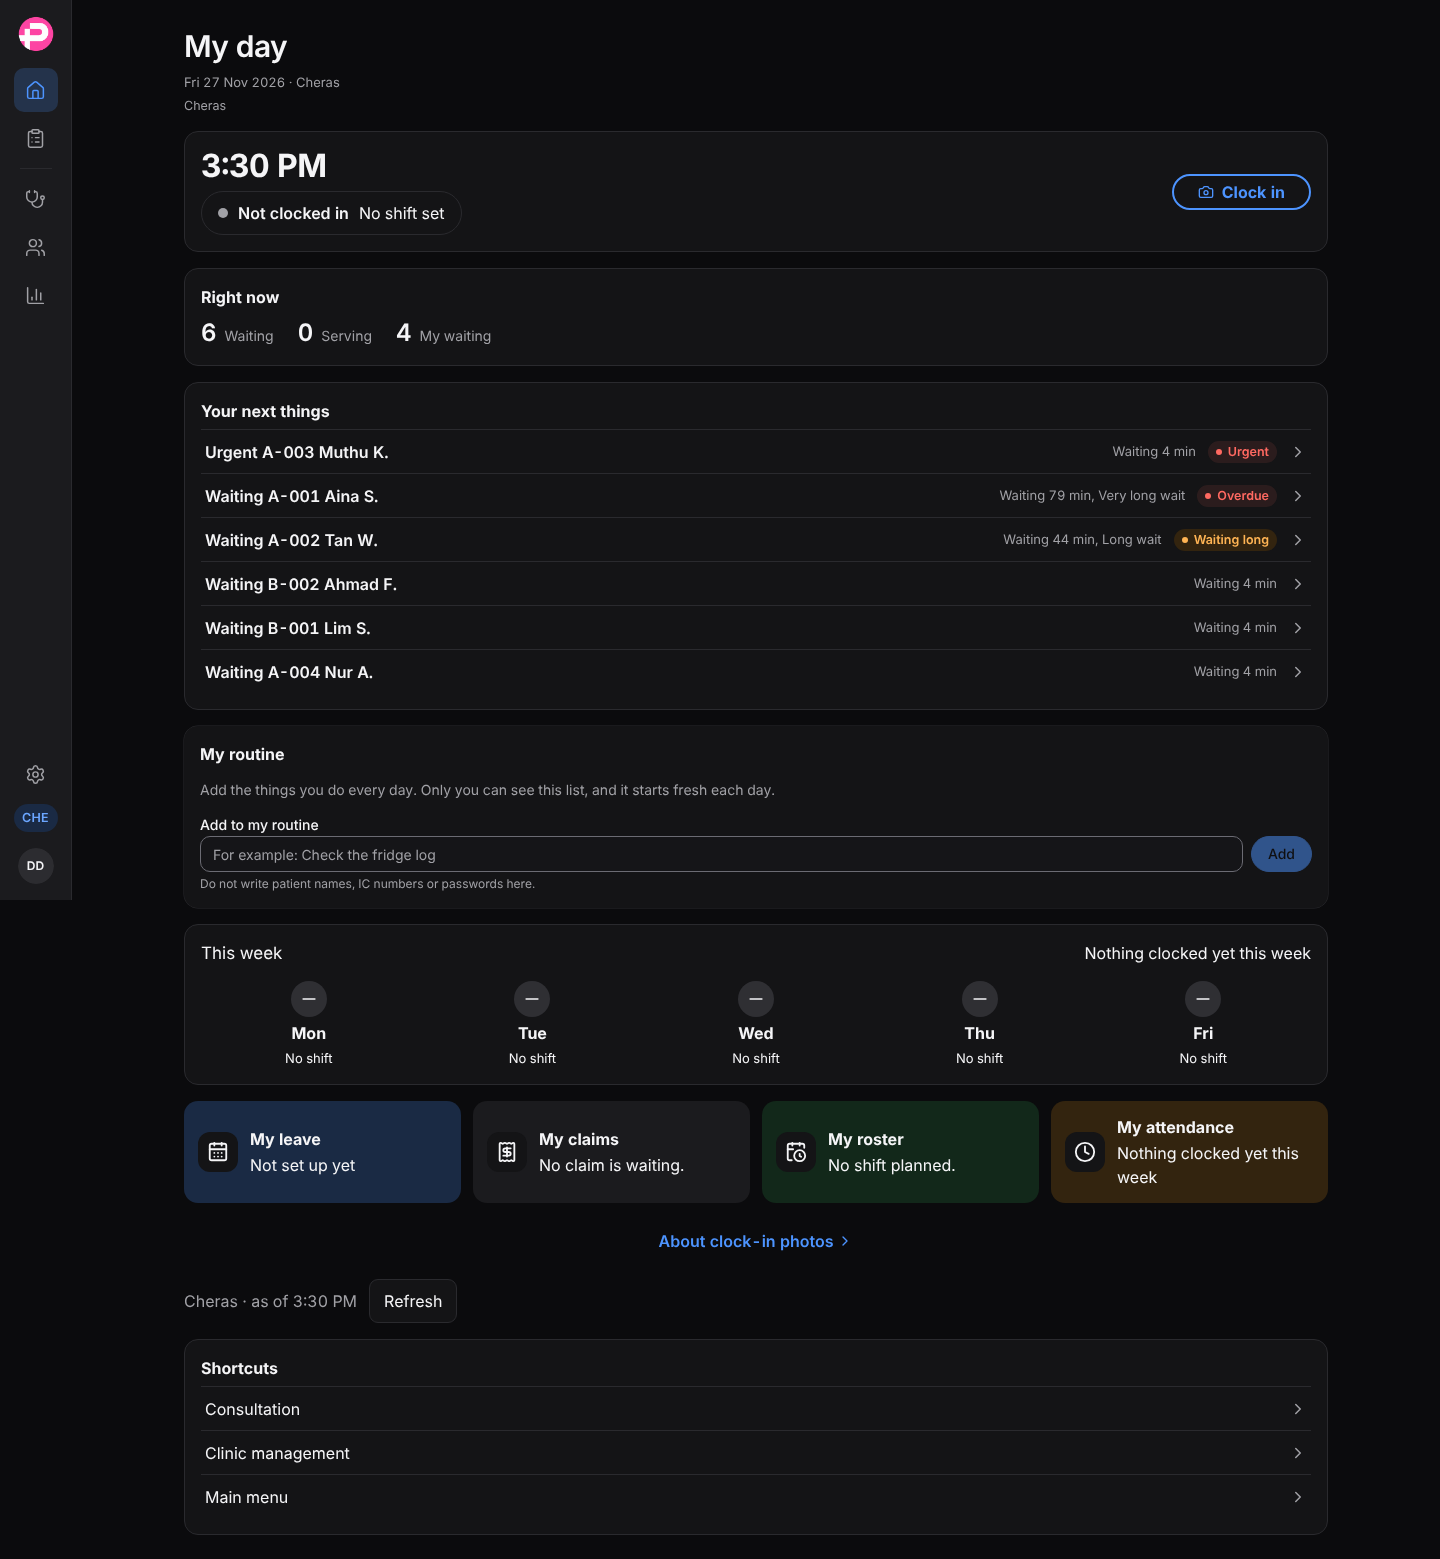
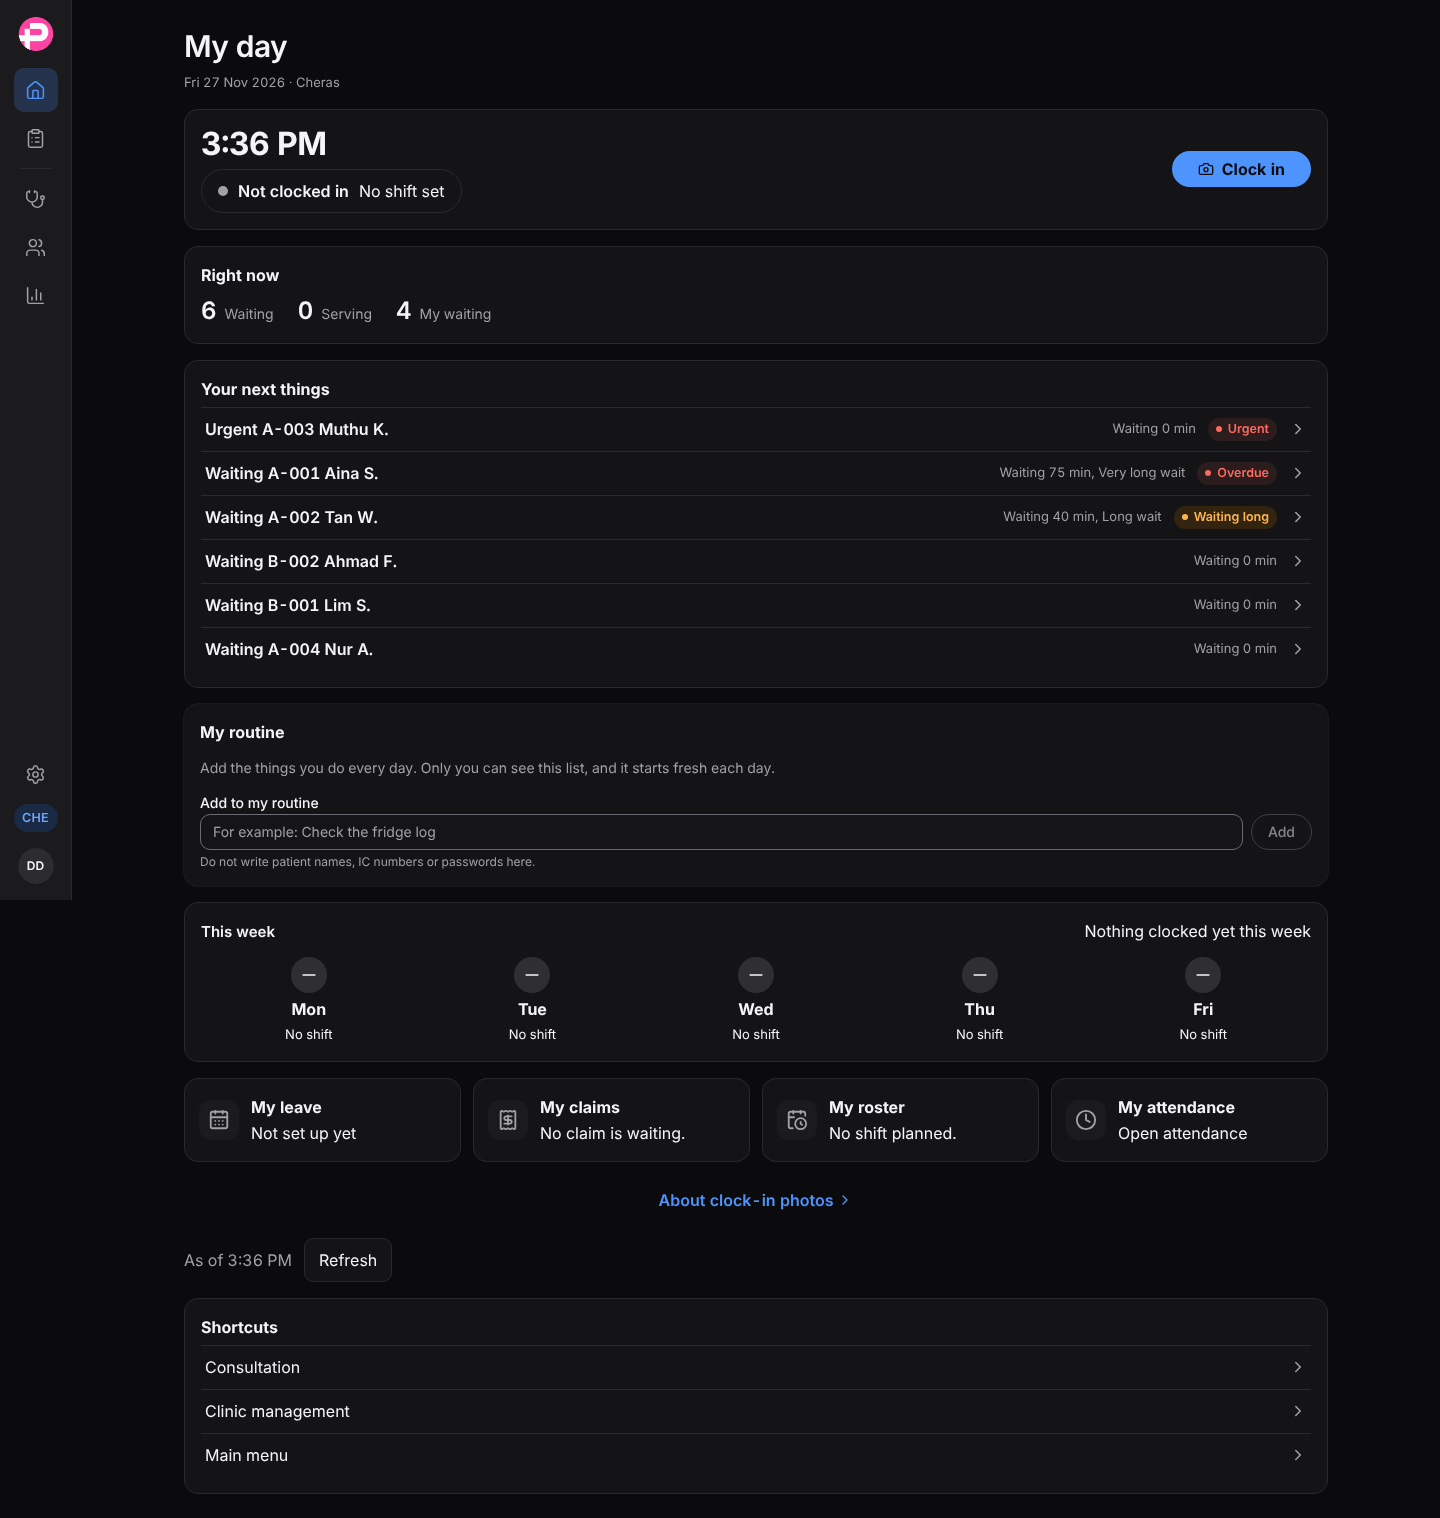
Re-shoot My day screenshots after Daniel's four changes
Claude-Session: https://claude.ai/code/session_01MHFmnZdtSucq8frKshn3kp

diff --git a/docs/validation/clean-look-homes-shots/README.md b/docs/validation/clean-look-homes-shots/README.md
@@ -1,8 +1,7 @@
 # Clean Look homes: My day screenshots (for Daniel's review)
 
-Source: PR #1135, head `a0a73f5d`, 27 Nov 2026, a task-owned synthetic database (presentation and demo-setup seed, then 6 waiting visits).
+Source: PR #1135, head `78fb913a`, 27 Nov 2026 (after Daniel's four changes), a task-owned synthetic database (presentation and demo-setup seed, then 6 waiting visits).
 Roles: CA, CA Supervisor, Resident Doctor (all at Cheras after the demo setup). Light and dark, 1440 px and 390 px (full page, 390 at 2x).
-Populated state: 4 consultation patients (one urgent, one waiting about 79 min = Overdue, one about 44 min = Waiting long) and 2 OTC patients.
-These shots caught two bugs, fixed in this head: a doctor saw each own-queue patient twice, and an urgent patient was badged Overdue.
-Known, not changed here: the branch name appears twice in the My day header (date line and branch subline).
+Populated state: 4 consultation patients (one urgent, one about 75 min = Overdue, one about 40 min = Waiting long) and 2 OTC patients.
+Rail: it is `fixed inset-y-0`; measured 1600 px tall in a 1600 px viewport. Stopping at 900 px in the full-page shots is a capture artefact, not a layout bug.
 Not shown: Serving, To dispense and To collect states, and the CA Supervisor approvals card.
